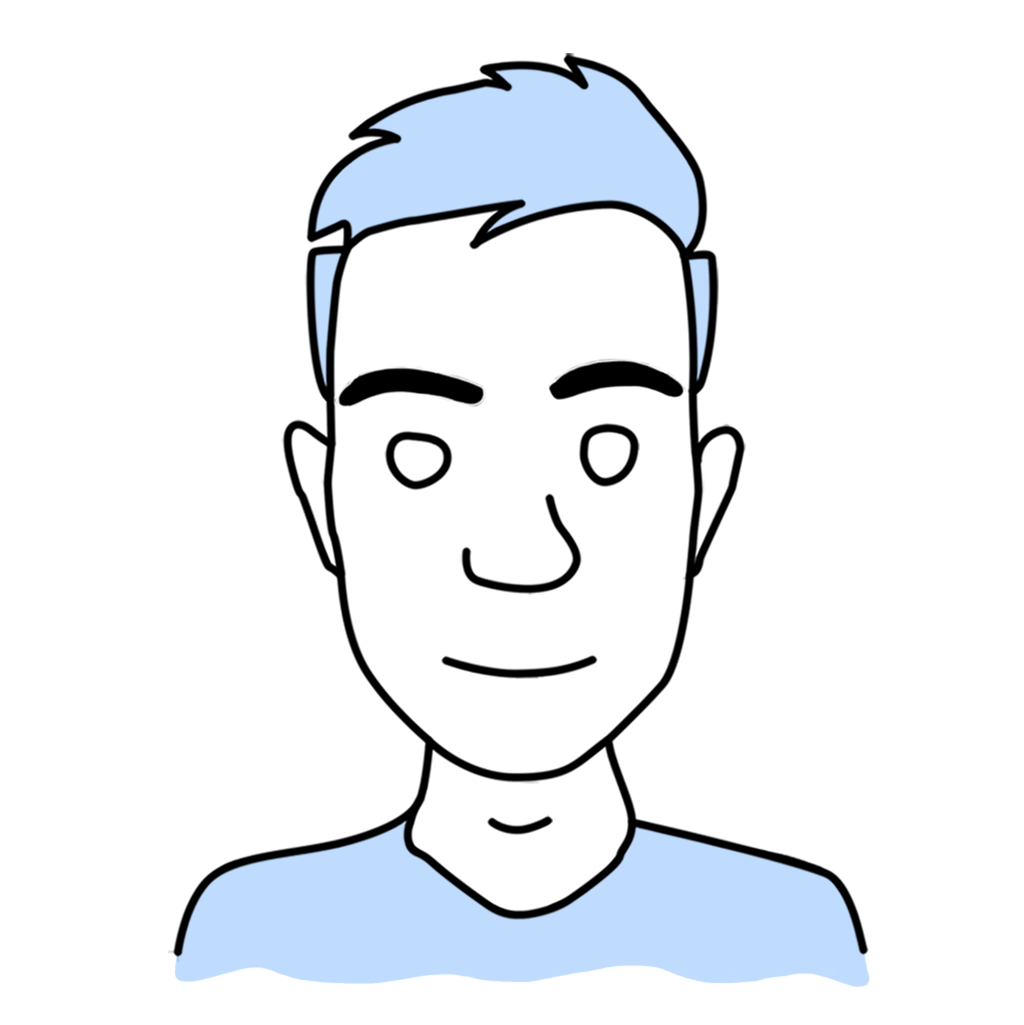
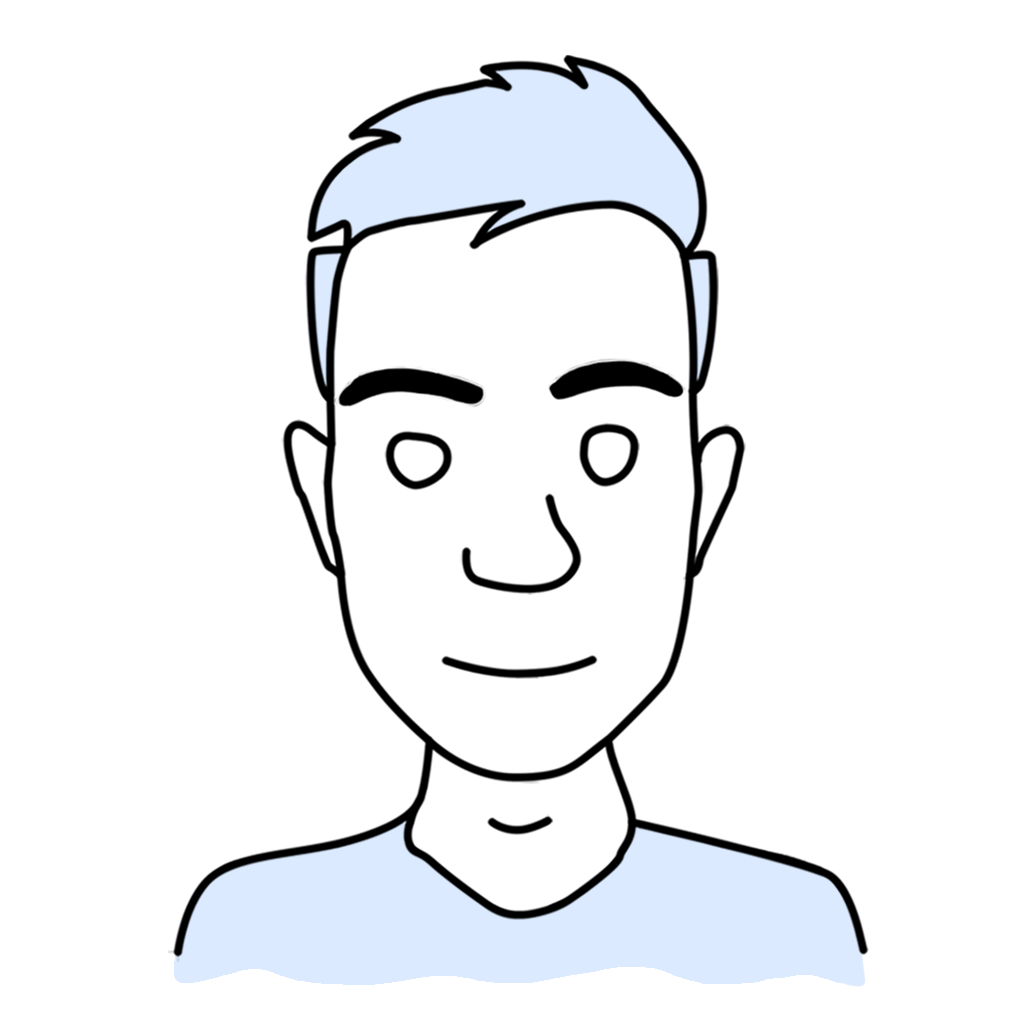
Change styling and hero image

Changed region(s): [[0.1562, 0.8117, 0.8438, 0.9678], [0.3125, 0.0624, 0.7188, 0.3434], [0.2812, 0.2498, 0.3438, 0.3434]]

diff --git a/components/Contact/InputsAndLabels.tsx b/components/Contact/InputsAndLabels.tsx
@@ -22,7 +22,7 @@ export default function InputsAndLabels({
                             headlineFont.variable
                         } font-headline text-lg opacity-0 ${
                             isVisible ? "animate-show-down-up" : ""
-                        } motion-reduce:animate-none motion-reduce:opacity-100 ${
+                        } motion-reduce:animate-none motion-reduce:opacity-200 ${
                             delays[index]
                         } first:mt-0`}
                     >
@@ -35,9 +35,9 @@ export default function InputsAndLabels({
                             name={section.htmlFor}
                             className={`rounded-xl border-0 bg-primary-200 opacity-0 ${
                                 isVisible && "animate-show-down-up"
-                            } motion-reduce:animate-none motion-reduce:transition-none motion-reduce:opacity-100 ${
+                            } motion-reduce:animate-none motion-reduce:transition-none motion-reduce:opacity-200 ${
                                 delays[index]
-                            } transition-all hover:bg-primary-300 focus:bg-primary-300`}
+                            } transition-all focus:ring-1 focus:ring-primary-900 hover:bg-primary-300 focus:bg-primary-300 outline-none`}
                         />
                     ) : (
                         <textarea
@@ -45,9 +45,9 @@ export default function InputsAndLabels({
                             name={section.htmlFor}
                             className={`resize-none rounded-xl border-0 bg-primary-200 opacity-0 ${
                                 isVisible && "animate-show-down-up"
-                            } motion-reduce:animate-none motion-reduce:transition-none motion-reduce:opacity-100 ${
+                            } motion-reduce:animate-none motion-reduce:transition-none motion-reduce:opacity-200 ${
                                 delays[index]
-                            } transition-all hover:bg-primary-300 focus:bg-primary-300`}
+                            } transition-all focus:ring-1 focus:ring-primary-900 hover:bg-primary-300 focus:bg-primary-300 outline-none`}
                             rows={3}
                             cols={30}
                             wrap="soft"

diff --git a/components/UI/Button.tsx b/components/UI/Button.tsx
@@ -13,7 +13,7 @@ export default function Button({
         <button
             onClick={() => callback()}
             aria-label={aria}
-            className={`${style} text-sm px-4 py-2 rounded-full bg-primary-200 ${headlineFont.variable} font-headline transition-all shadow-custom shadow-zinc-400 hover:bg-primary-300 focus:bg-primary-300 motion-reduce:transition-none sm:text-base`}
+            className={`${style} text-sm px-4 py-2 rounded-full bg-primary-200 ${headlineFont.variable} font-headline transition-all hover:bg-primary-300 focus:bg-primary-300 motion-reduce:transition-none sm:text-base`}
         >
             {text}
         </button>
@@ -22,7 +22,7 @@ export default function Button({
             href={href}
             target="_blank"
             rel="noopener noreferrer"
-            className={`${style} text-sm px-4 py-2 rounded-full bg-primary-200 ${headlineFont.variable} font-headline transition-all shadow-custom shadow-zinc-400 hover:bg-primary-300 focus:bg-primary-300 motion-reduce:transition-none sm:text-base`}
+            className={`${style} text-sm px-4 py-2 rounded-full bg-primary-200 ${headlineFont.variable} font-headline transition-all hover:bg-primary-300 focus:bg-primary-300 motion-reduce:transition-none sm:text-base`}
         >
             {text}
         </a>

diff --git a/components/MyWork/Project.tsx b/components/MyWork/Project.tsx
@@ -26,9 +26,9 @@ export default function Project({
         <>
             <div
                 ref={containerRef}
-                className={`flex flex-col basis-1/3 max-w-sm mx-auto my-6 p-4 shadow-custom shadow-zinc-400 rounded-primary opacity-0 transition-all hover:scale-105 hover:opacity-100 hover:[animation-fill-mode:backwards] sm:p-6 ${
+                className={`flex flex-col basis-1/3 max-w-sm mx-auto my-4 p-4 shadow-custom shadow-zinc-400 rounded-primary opacity-0 transition-all hover:scale-105 hover:opacity-100 hover:[animation-fill-mode:backwards] ${
                     isVisible && "animate-show-down-up"
-                } ${animationDelay} motion-reduce:animate-none motion-reduce:opacity-100 motion-reduce:transition-none lg:m-0 lg:max-w-[300px] xl:max-w-[340px]`}
+                } ${animationDelay} motion-reduce:animate-none motion-reduce:opacity-100 motion-reduce:transition-none sm:p-6 lg:m-0 lg:first:m-0 lg:last:m-0 lg:max-w-[300px] xl:max-w-[340px]`}
             >
                 <div className="basis-3/4">
                     <h3 className={`${headlineFont.variable} font-headline`}>

diff --git a/components/Contact/Form.tsx b/components/Contact/Form.tsx
@@ -39,9 +39,9 @@ export default function Form({ form, button }: FormProps) {
                     aria-label="Submit form"
                     className={`bg-primary-200 rounded-xl my-6 p-4 ${
                         headlineFont.variable
-                    } font-headline opacity-0 tracking-wider text-lg transition-all duration-300 shadow-zinc-400 shadow-custom ${
+                    } font-headline opacity-0 tracking-wider text-lg transition-all duration-300 shadow-zinc-300 shadow-custom ${
                         isVisible && "animate-show-down-up"
-                    } [animation-delay:0.8s] motion-reduce:animate-none motion-reduce:opacity-100 motion-reduce:transition-none hover:bg-primary-300 focus:bg-primary-300`}
+                    } [animation-delay:0.8s] motion-reduce:animate-none motion-reduce:opacity-200 motion-reduce:transition-none hover:bg-primary-300 focus:bg-primary-300`}
                 >
                     {button.text}
                 </button>

diff --git a/components/AboutMe/AboutMe.tsx b/components/AboutMe/AboutMe.tsx
@@ -12,9 +12,7 @@ export default function AboutMe() {
                 <Panel headline={h2} desc={firstParagraph} />
                 <div className="w-full flex flex-col items-center">
                     <div className="w-full flex flex-col mt-8 lg:mt-16">
-                        <div>
-                            <SubPanel headline={h3} desc={secondParagraph} />
-                        </div>
+                        <SubPanel headline={h3} desc={secondParagraph} />
                         <Foods foods={foods} />
                     </div>
                 </div>

diff --git a/components/MyWork/MyWork.tsx b/components/MyWork/MyWork.tsx
@@ -15,7 +15,7 @@ export default function MyWork() {
         <section id="my-work">
             <div className="mx-auto max-w-section">
                 <Panel headline={h2} desc={desc} />
-                <div className="w-full flex flex-col items-strech mt-16 lg:mt-20 lg:flex-row lg:justify-between">
+                <div className="w-full flex flex-col items-strech mt-8 lg:mt-20 lg:flex-row lg:justify-between">
                     {projects.map((project, index) => (
                         <Project
                             key={project.name}

diff --git a/tailwind.config.js b/tailwind.config.js
@@ -35,6 +35,7 @@ module.exports = {
             },
             colors: {
                 "primary-50": "#eff6ff",
+                "primary-75": "#e5f0ff",
                 "primary-100": "#dbeafe",
                 "primary-200": "#bfdbfe",
                 "primary-300": "#93c5fd",

diff --git a/components/Contact/Links.tsx b/components/Contact/Links.tsx
@@ -6,7 +6,7 @@ export default function Links({ links }: LinksProps) {
     const [containerRef, isVisible] = useElementOnScreen({
         root: null,
         rootMargin: "0px",
-        threshold: 1.0,
+        threshold: 0.4,
     });
 
     const delays = [
